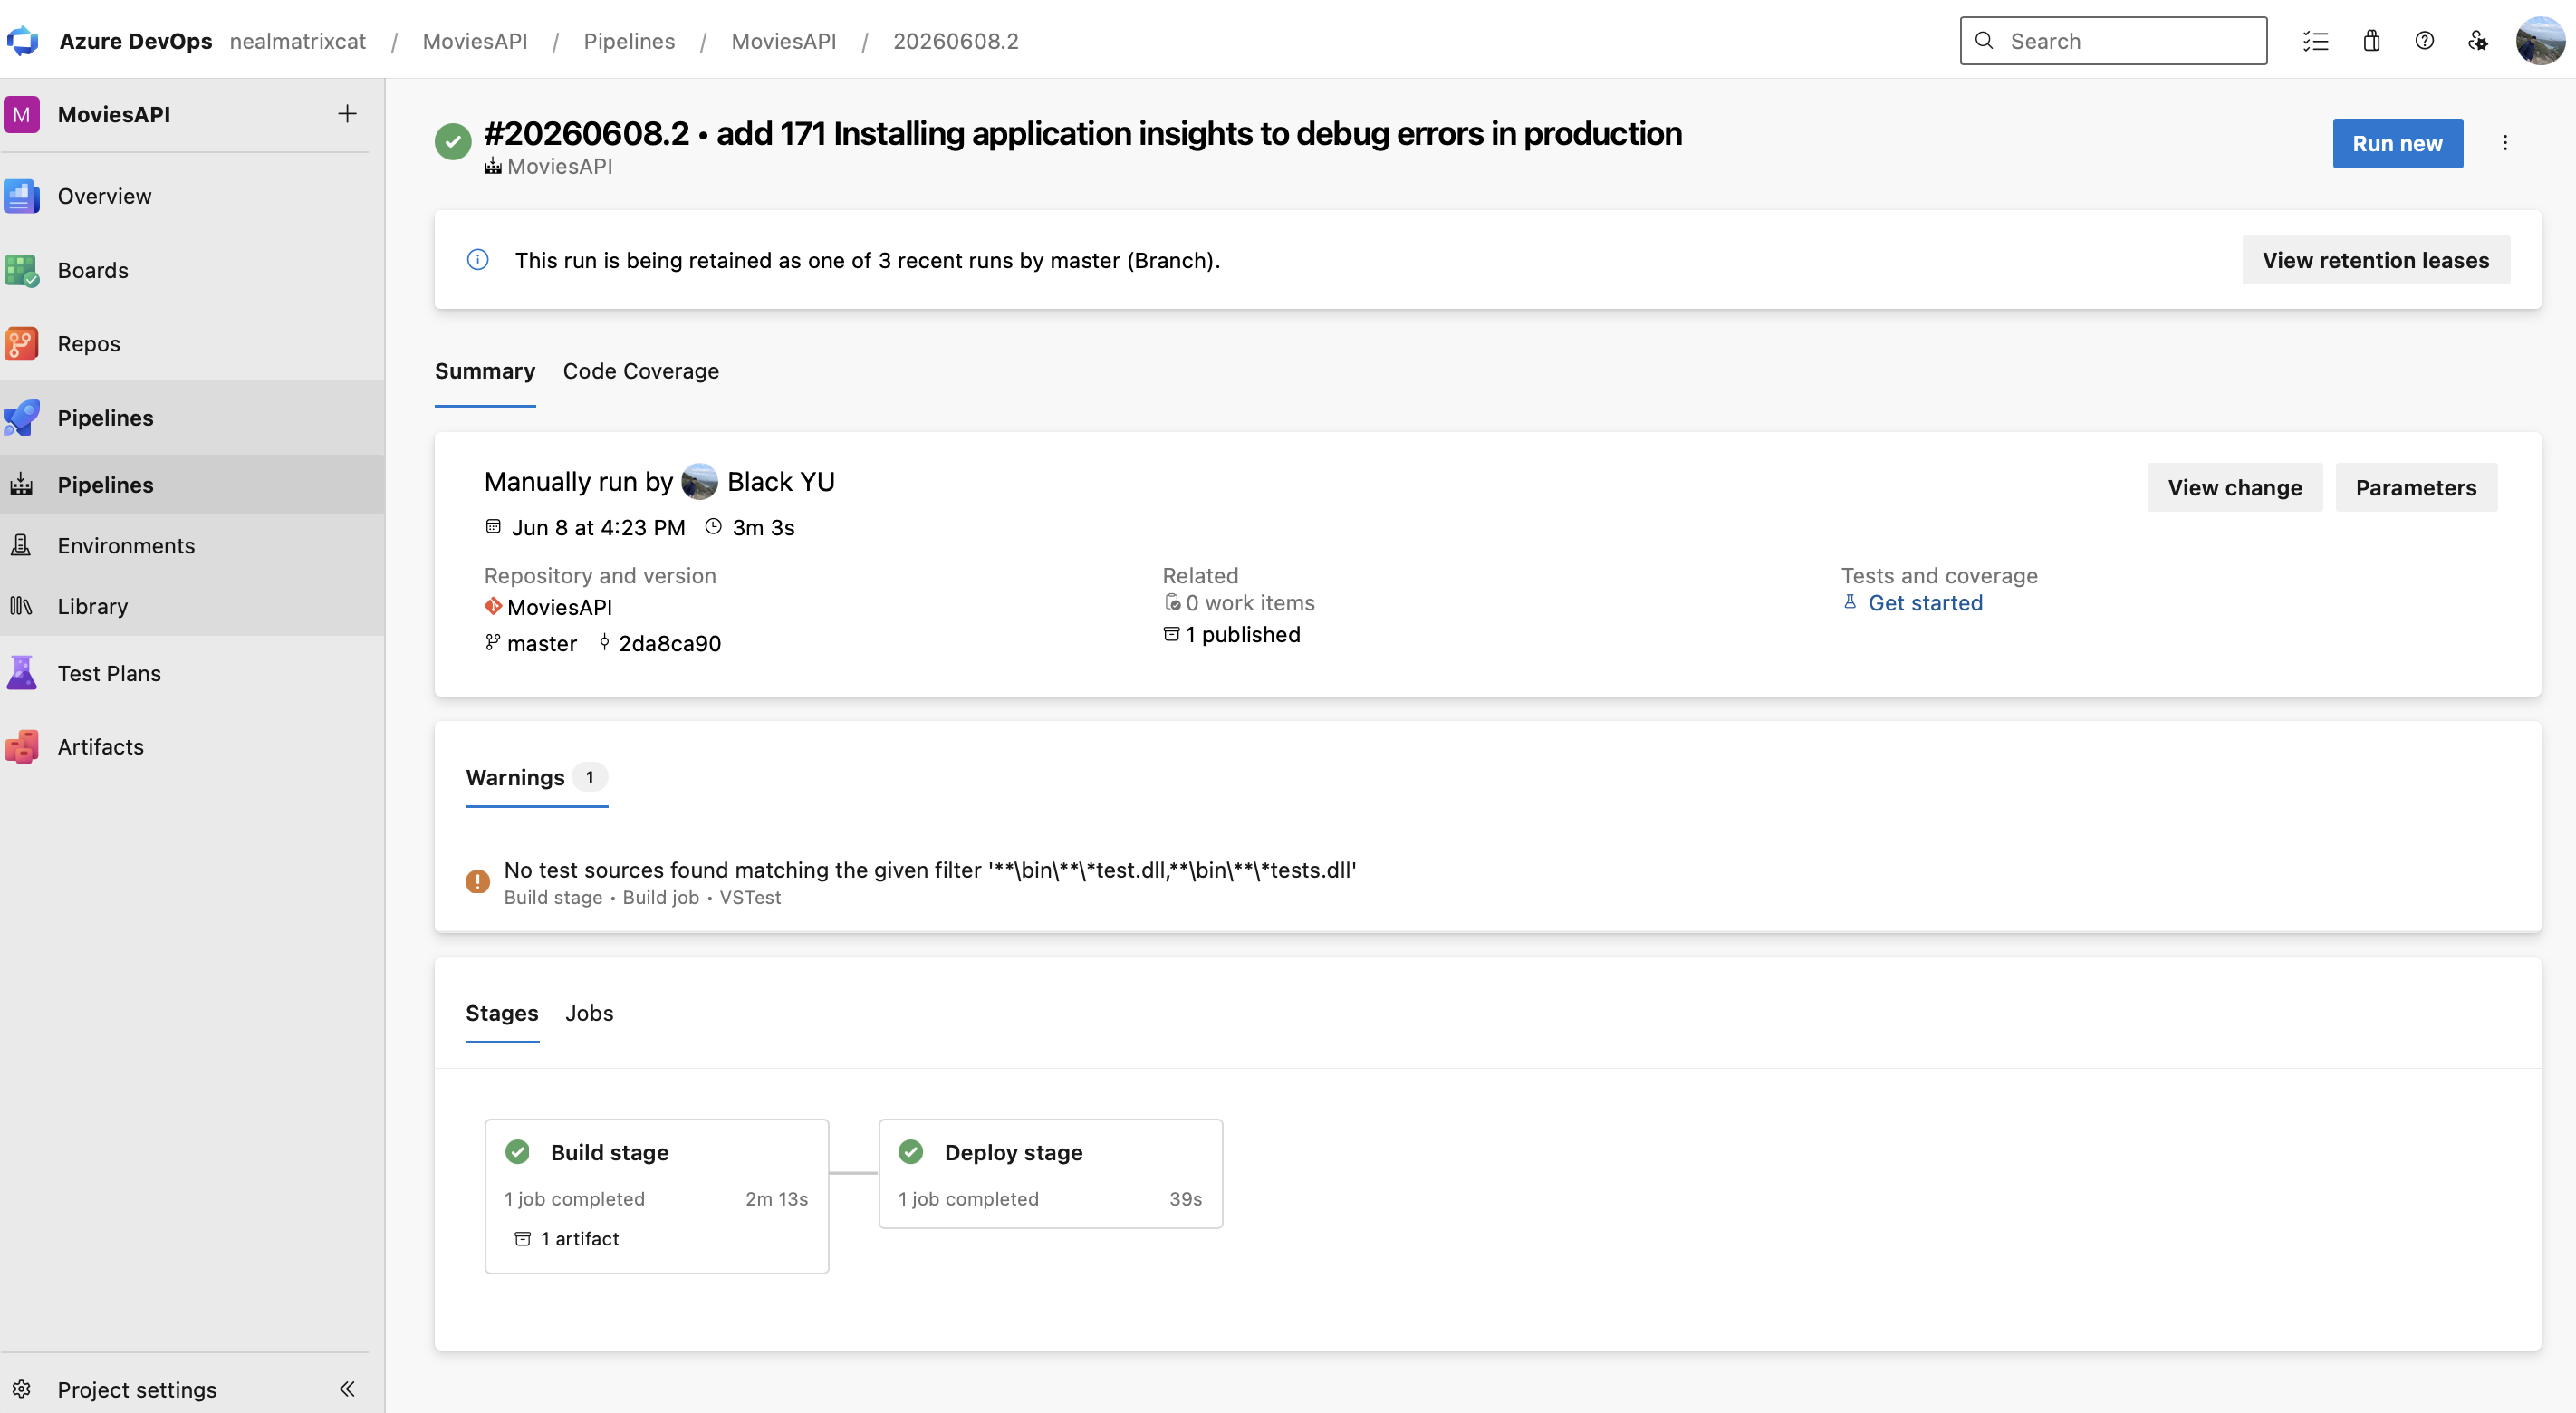
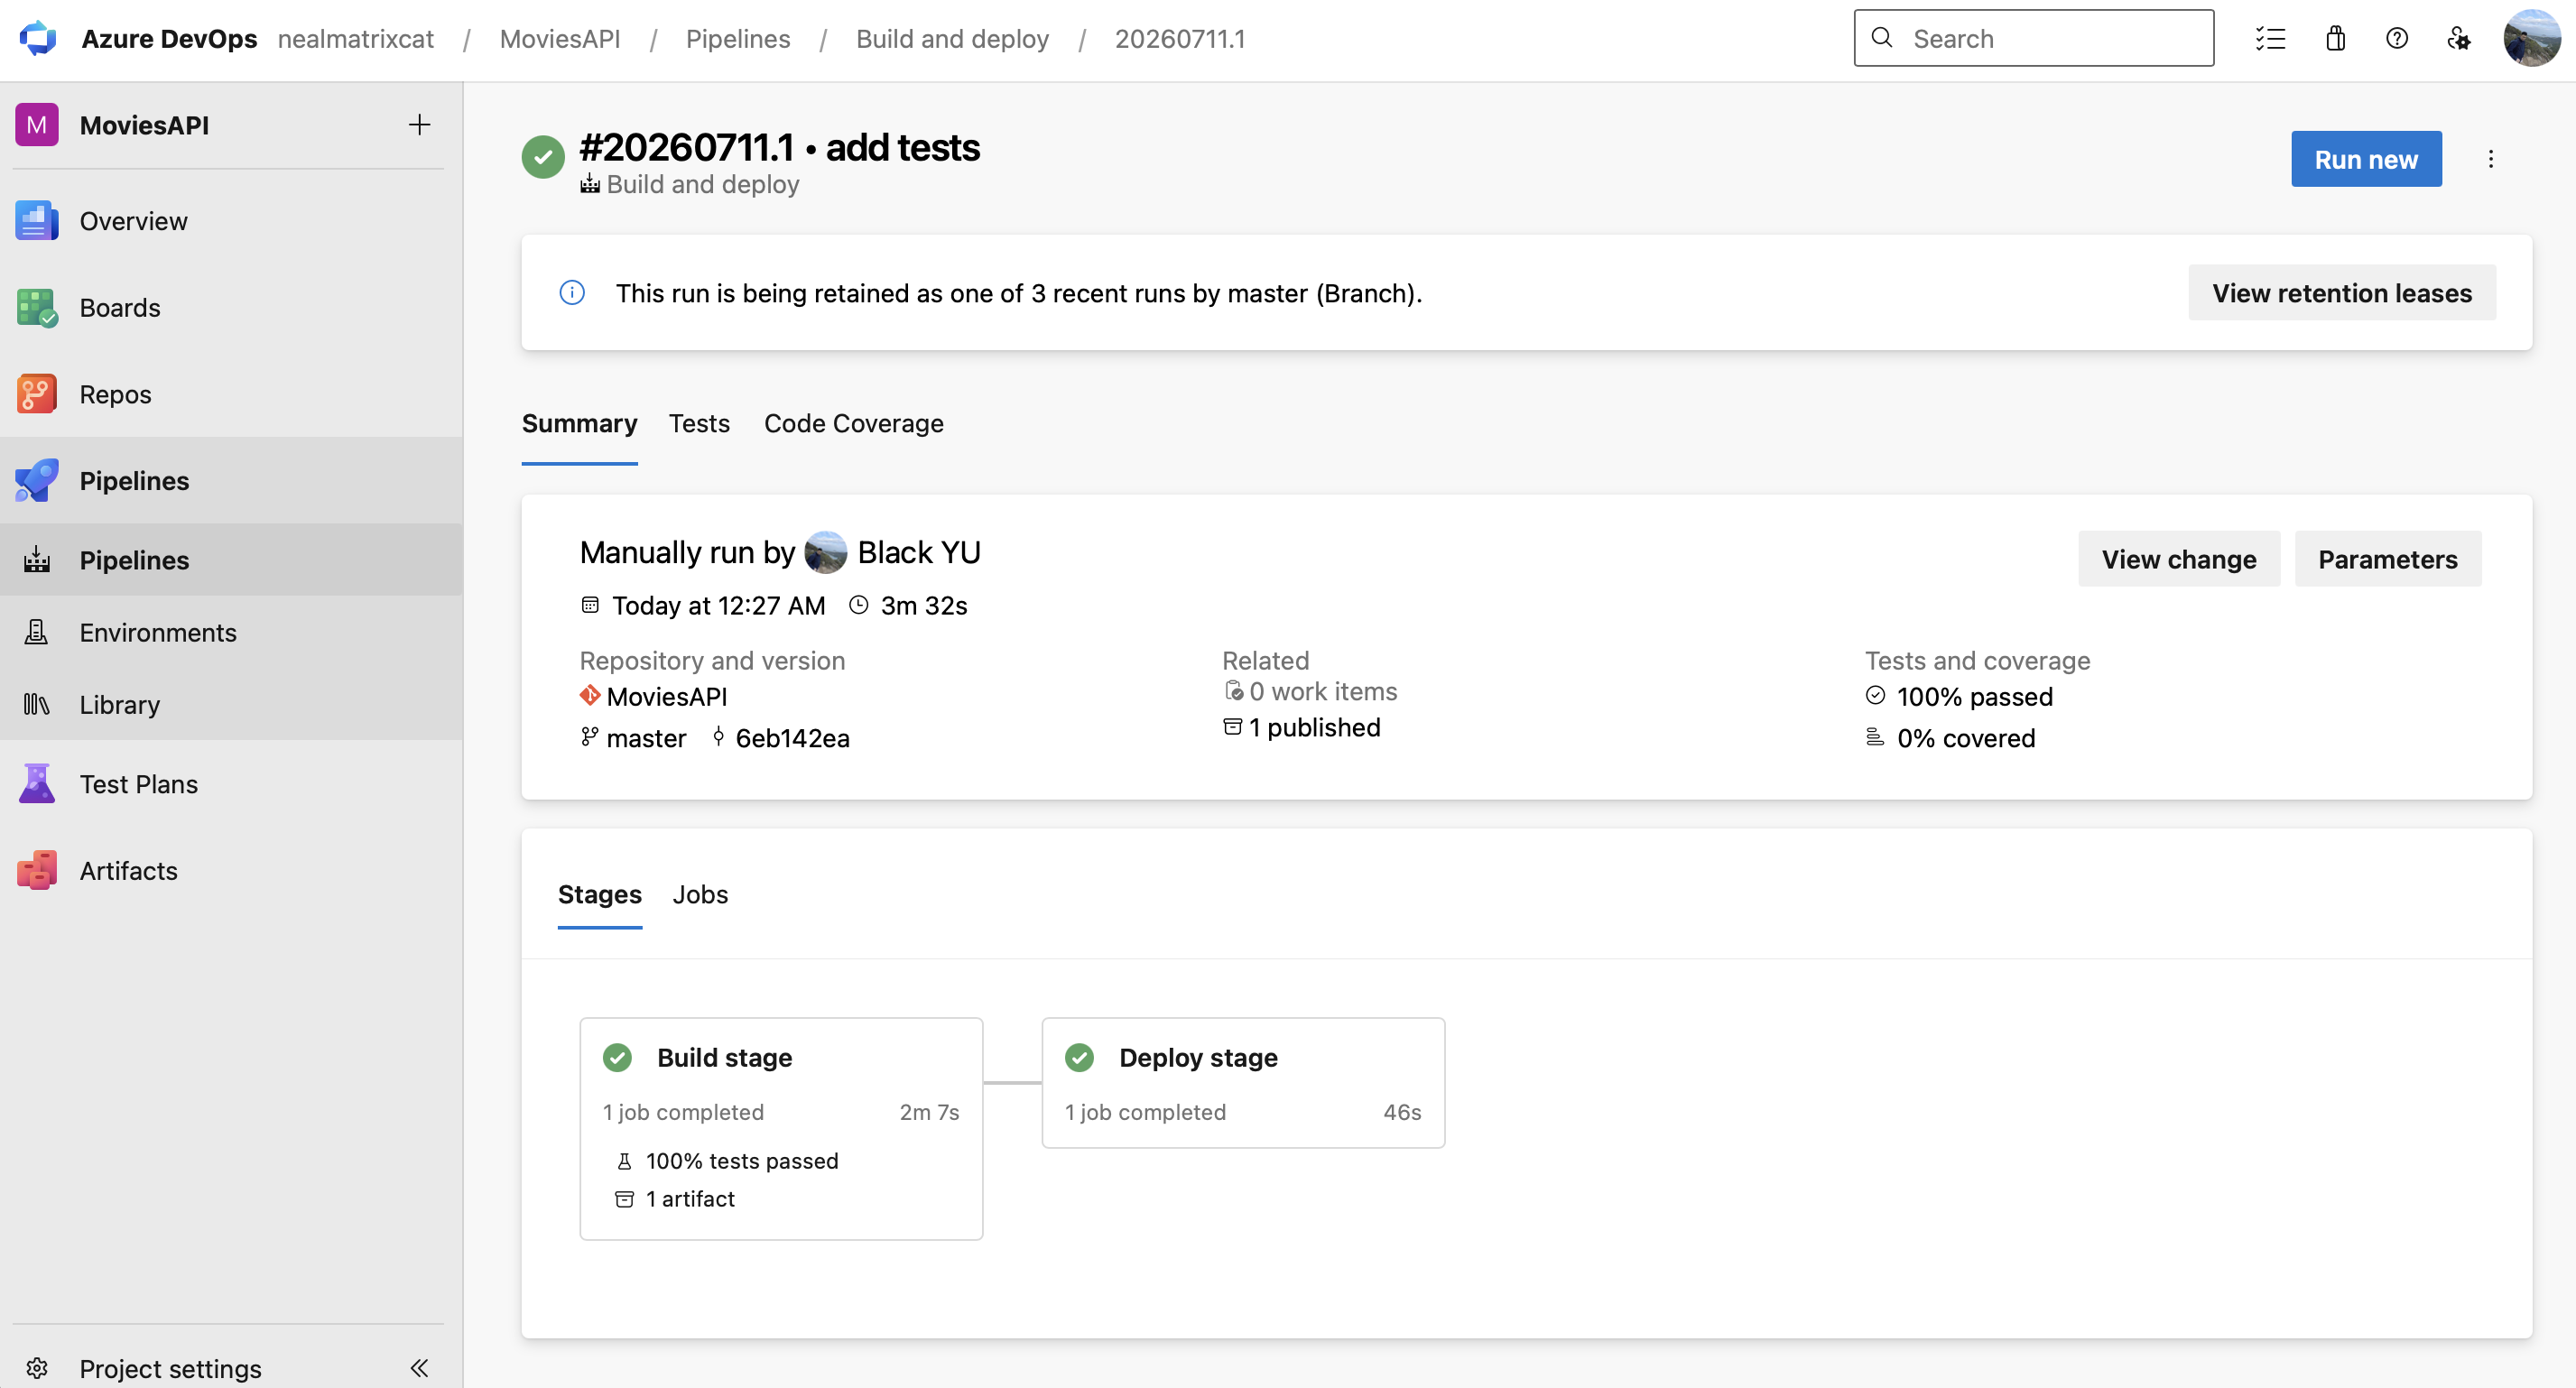
add tests to README

diff --git a/README.md b/README.md
@@ -23,9 +23,11 @@
 
     ![](./images/deployment/azure_app_service.png)
 
-- Backend build and deploy: Azure DevOps pipelines
+- Backend build, test, and deployment: Azure DevOps pipelines
 
     ![](./images/deployment/pipeline_build_deploy.png)
+
+    ![](./images/deployment/pipeline_test.png)
 
 - Image Storage: Azure Storage 
 